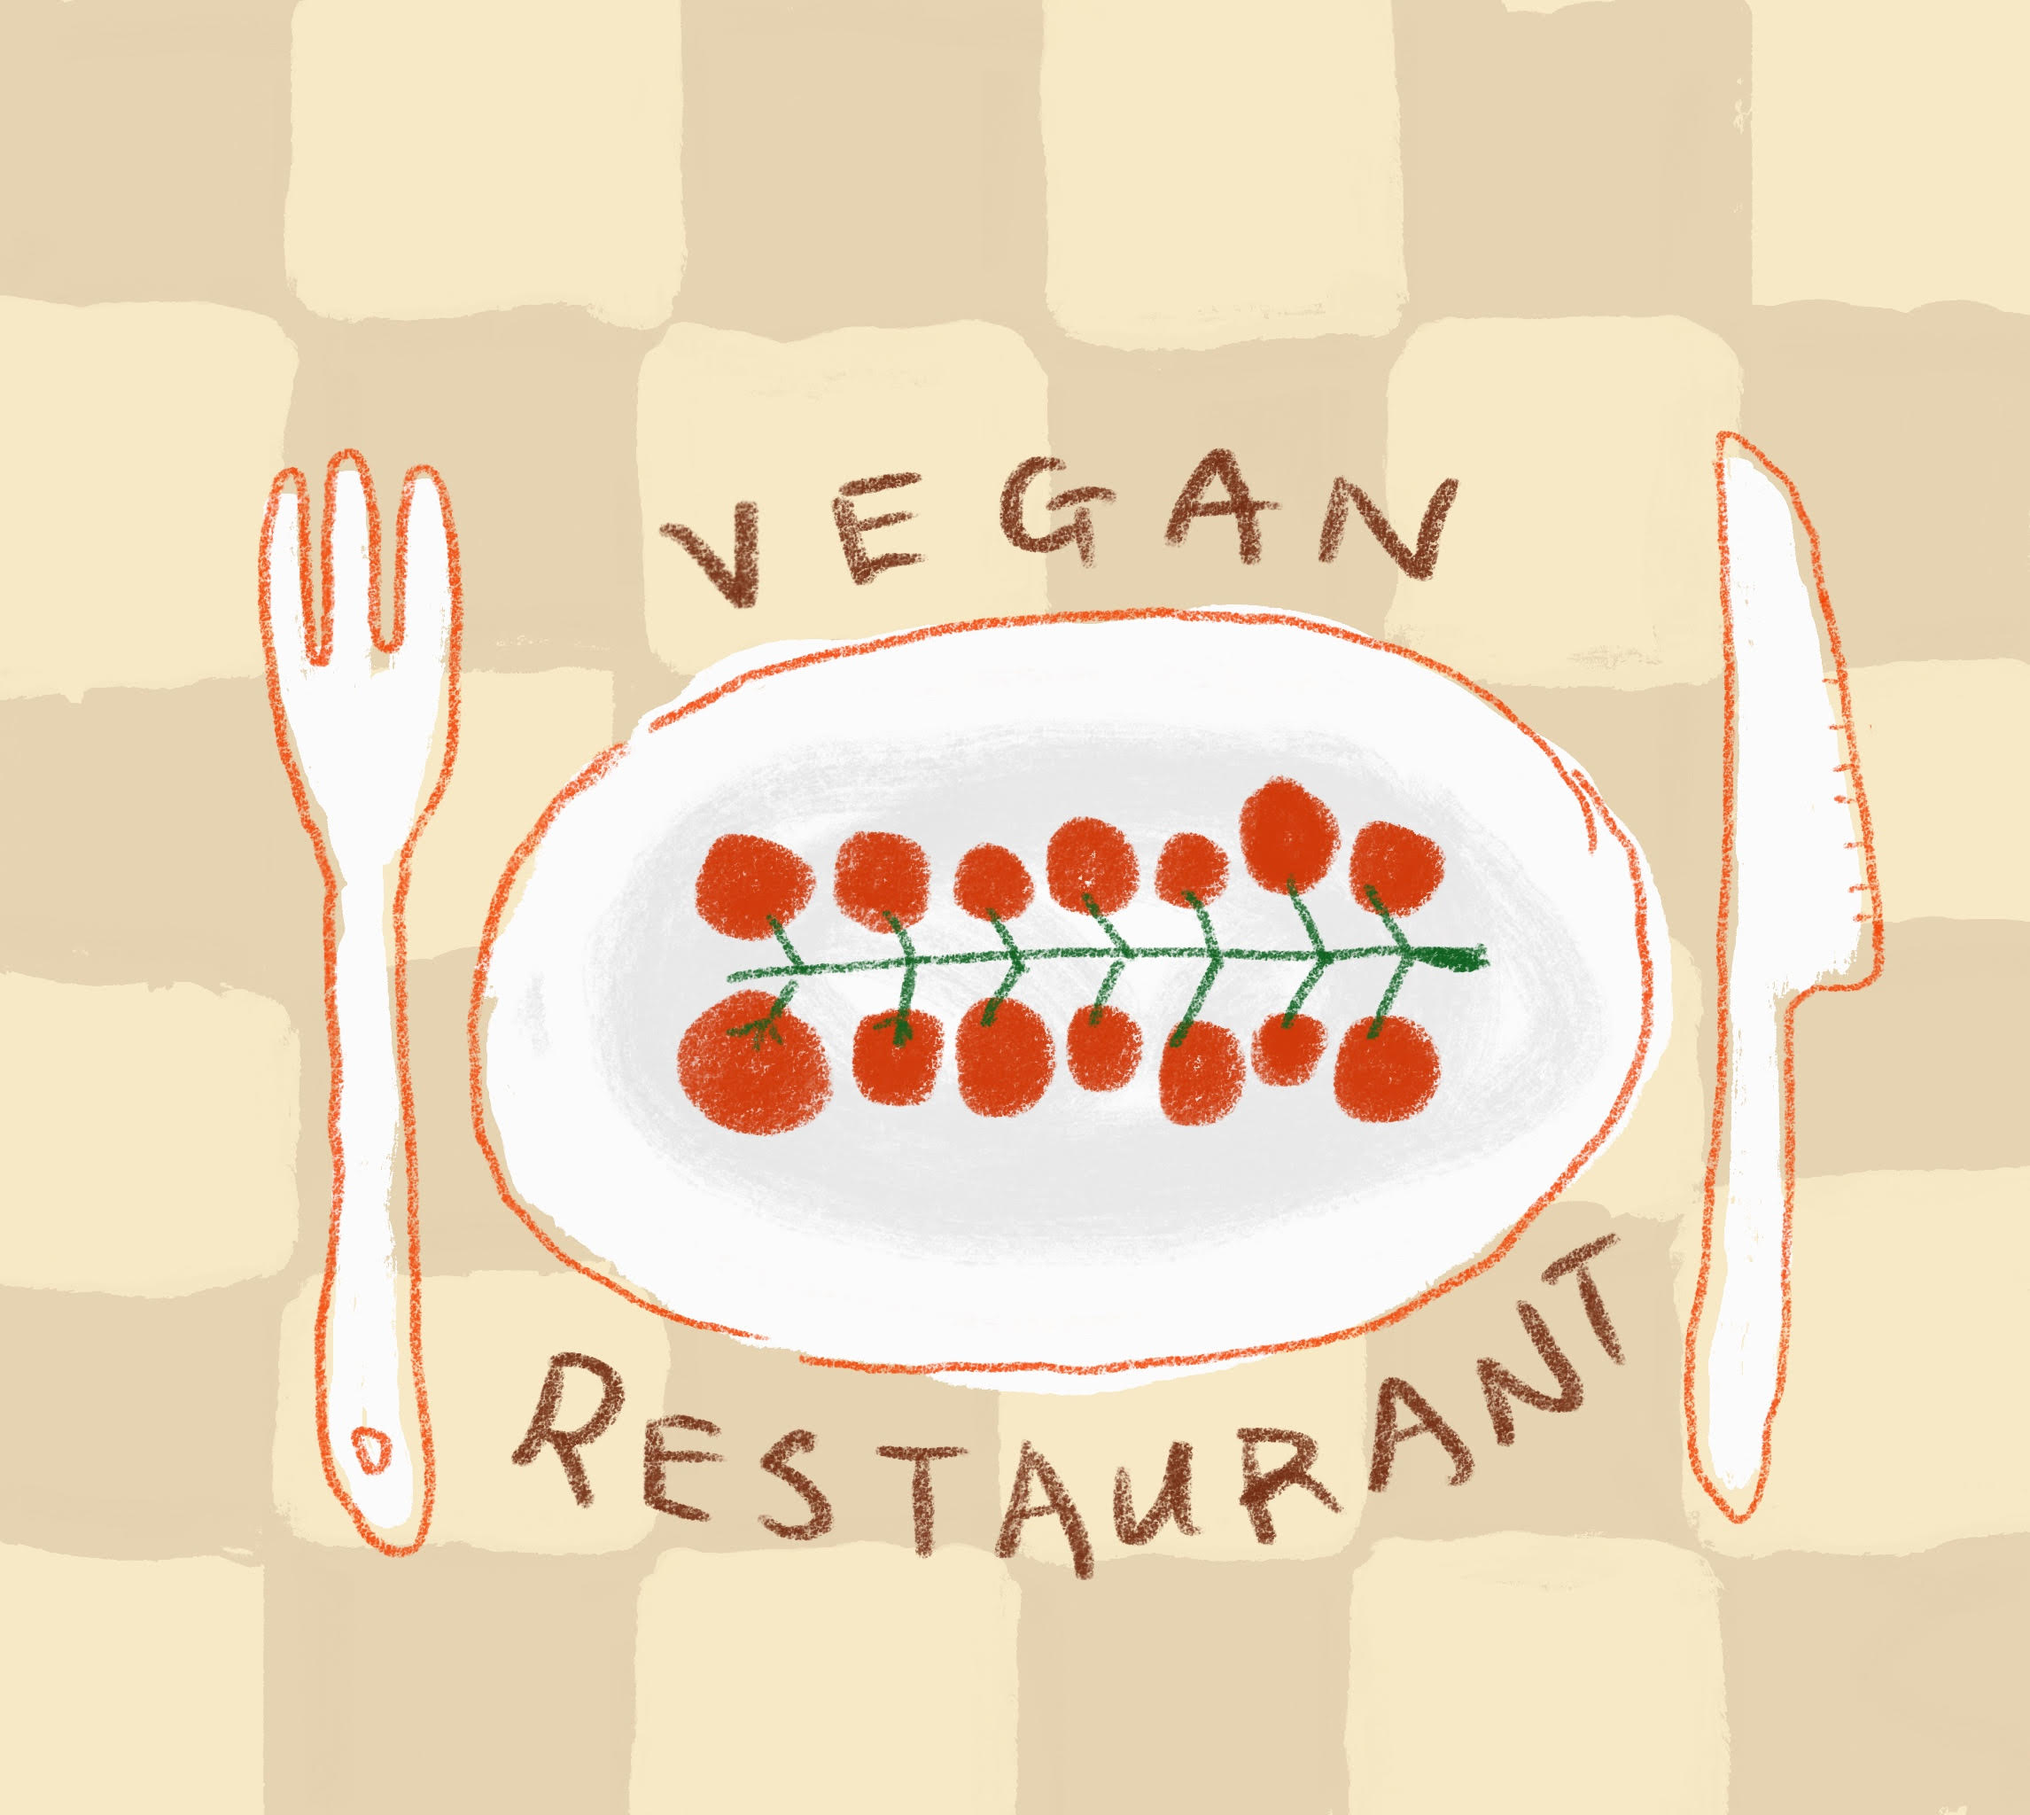
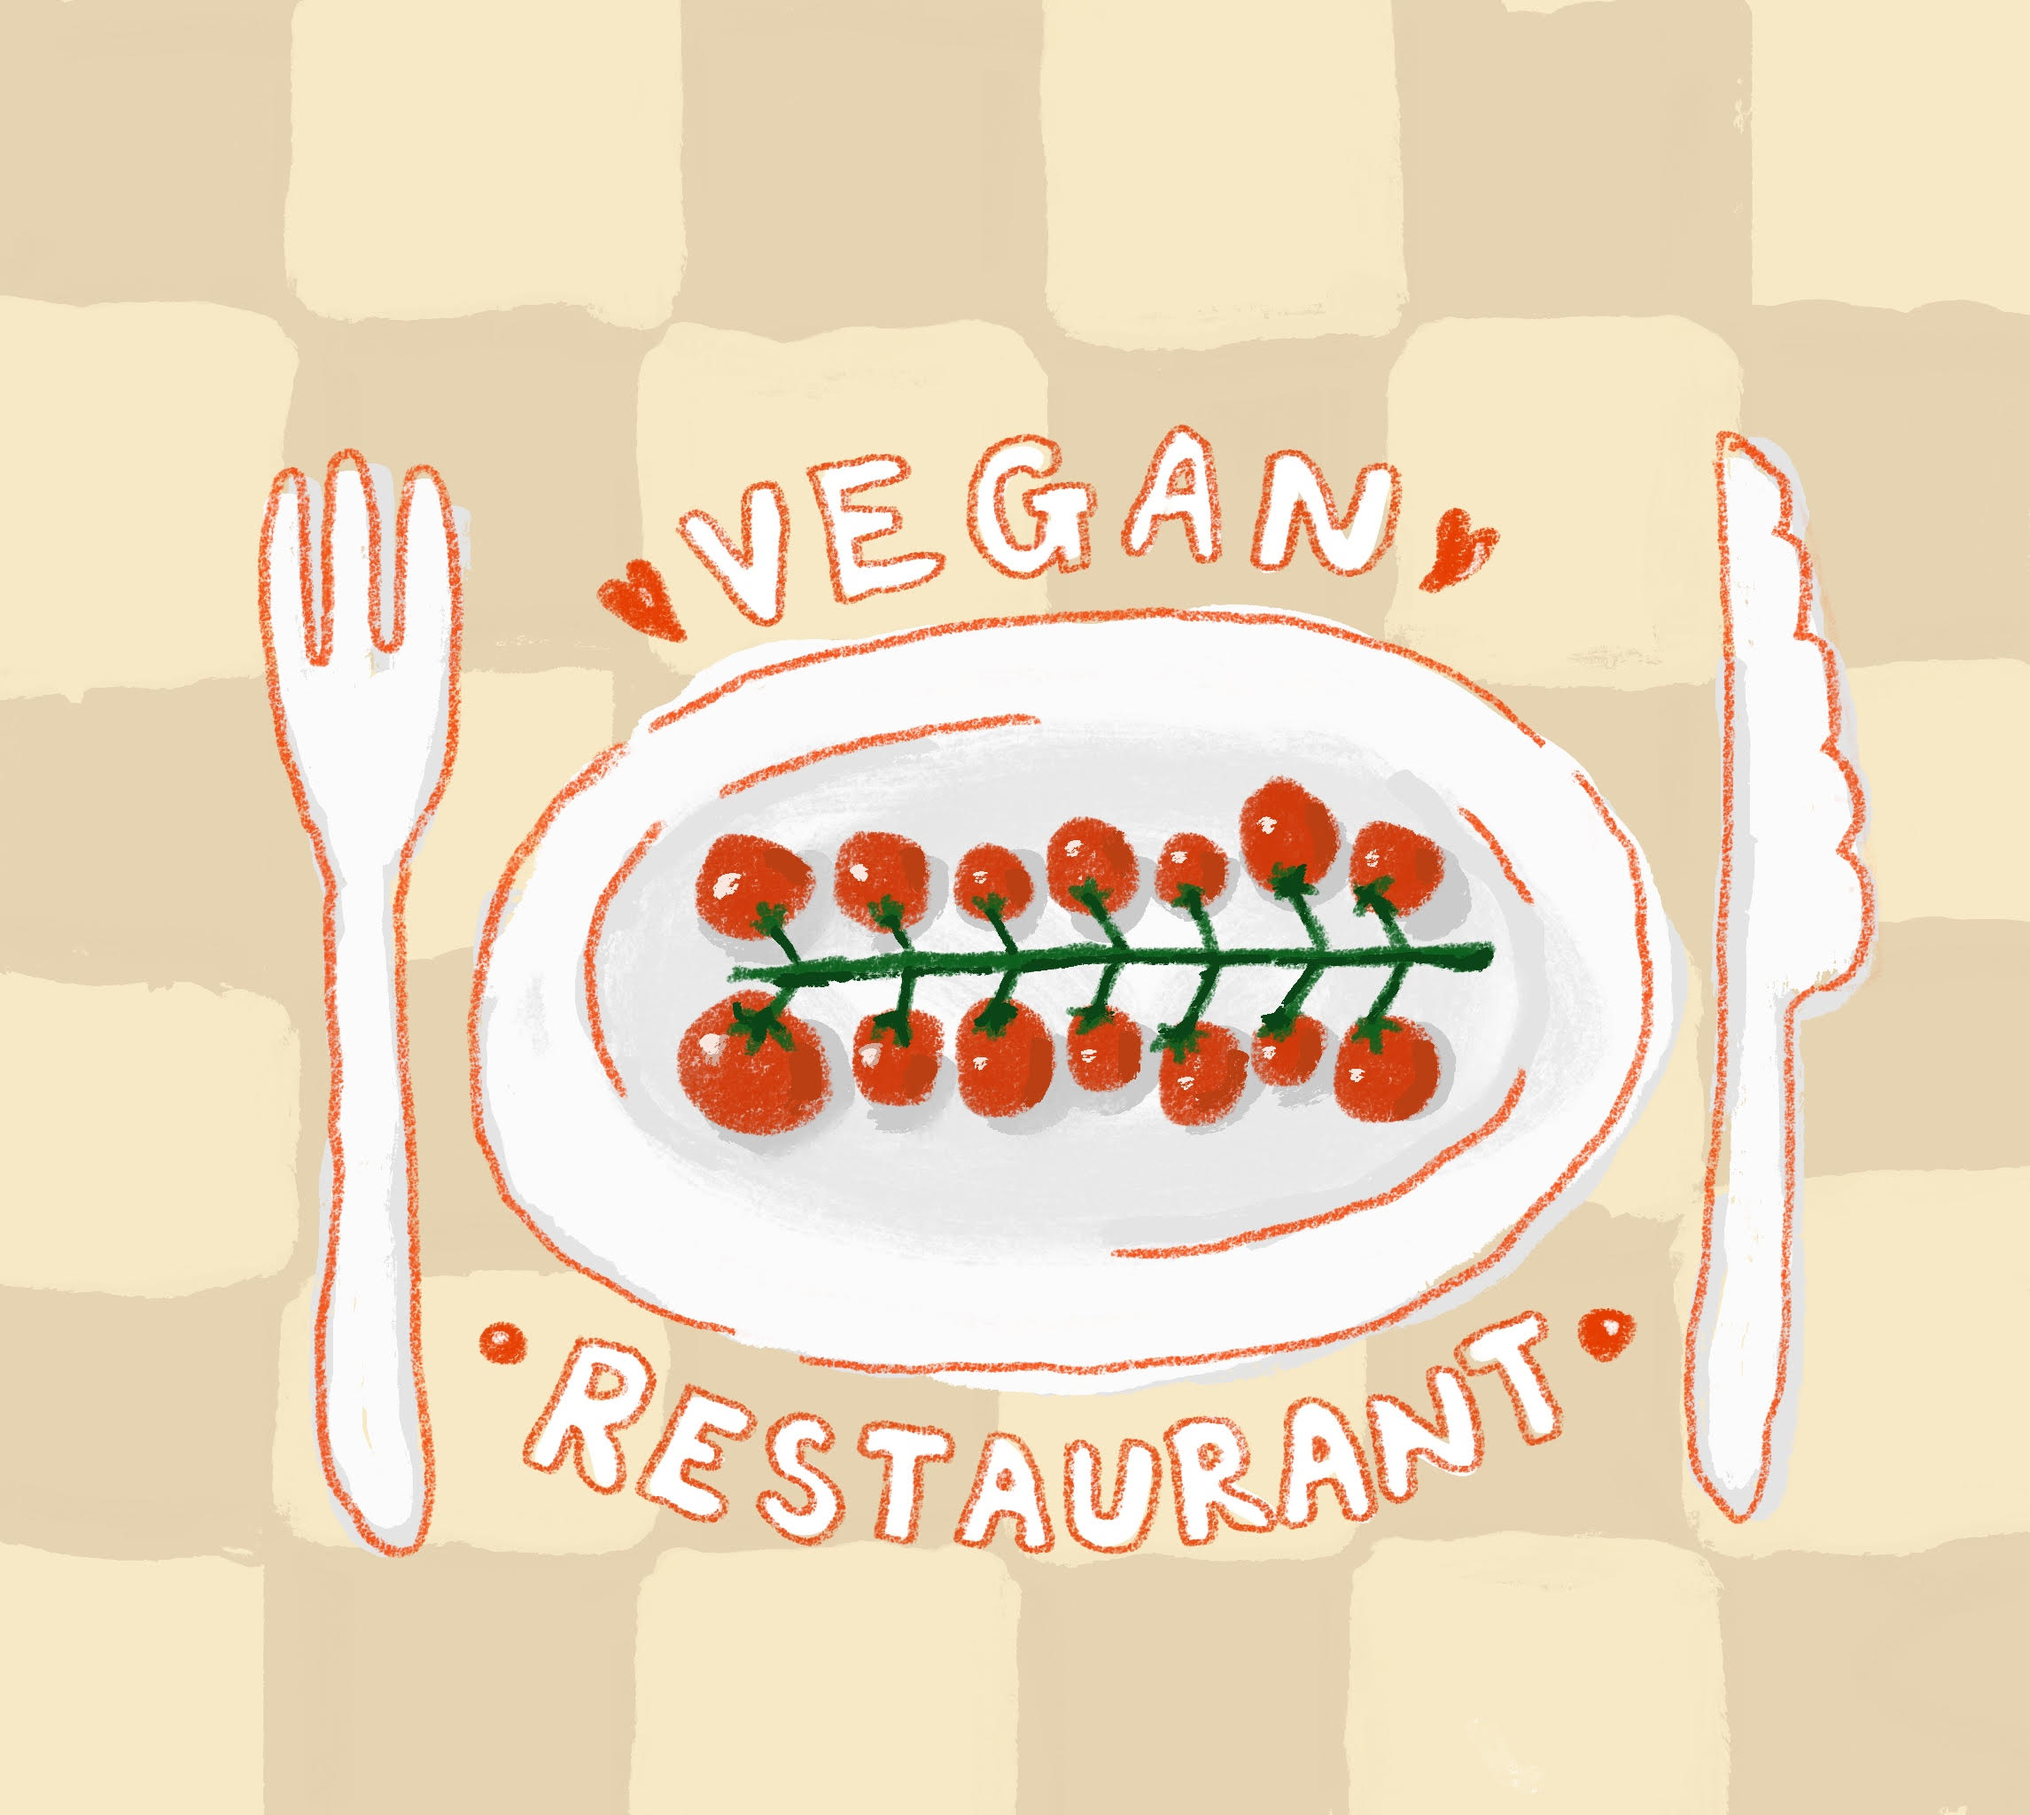
feat: Update hero section with new background image and add illustration attribution

diff --git a/restaurants.html b/restaurants.html
@@ -7,6 +7,11 @@
   <title>Restaurants | Powered by Plants</title>
   <link rel="stylesheet" href="css/style.css">
   <style>
+    /* Override default hero background for custom illustration */
+    .hero::before {
+      display: none;
+    }
+    
     .restaurant-card {
       transition: opacity 0.3s ease, transform 0.3s ease;
     }
@@ -77,11 +82,12 @@
   </nav>
 
   <!-- Hero Section -->
-  <section class="hero" style="min-height: 50vh; background-image: url('images/restaurant-vegan.jpg');">
+  <section class="hero" style="min-height: 50vh; background-image: url('images/restaurant-vegan.jpg'); background-size: cover; background-position: center;">
     <div class="hero-content">
       <h1>Restaurants</h1>
       <p class="subtitle">Vegan-friendly spots in London & Hong Kong</p>
     </div>
+    <p style="position: absolute; bottom: 10px; right: 15px; color: rgba(255, 255, 255, 0.7); font-size: 0.75rem; margin: 0; z-index: 2;">Illustration by Victoria Dong</p>
   </section>
 
   <!-- London Section -->
